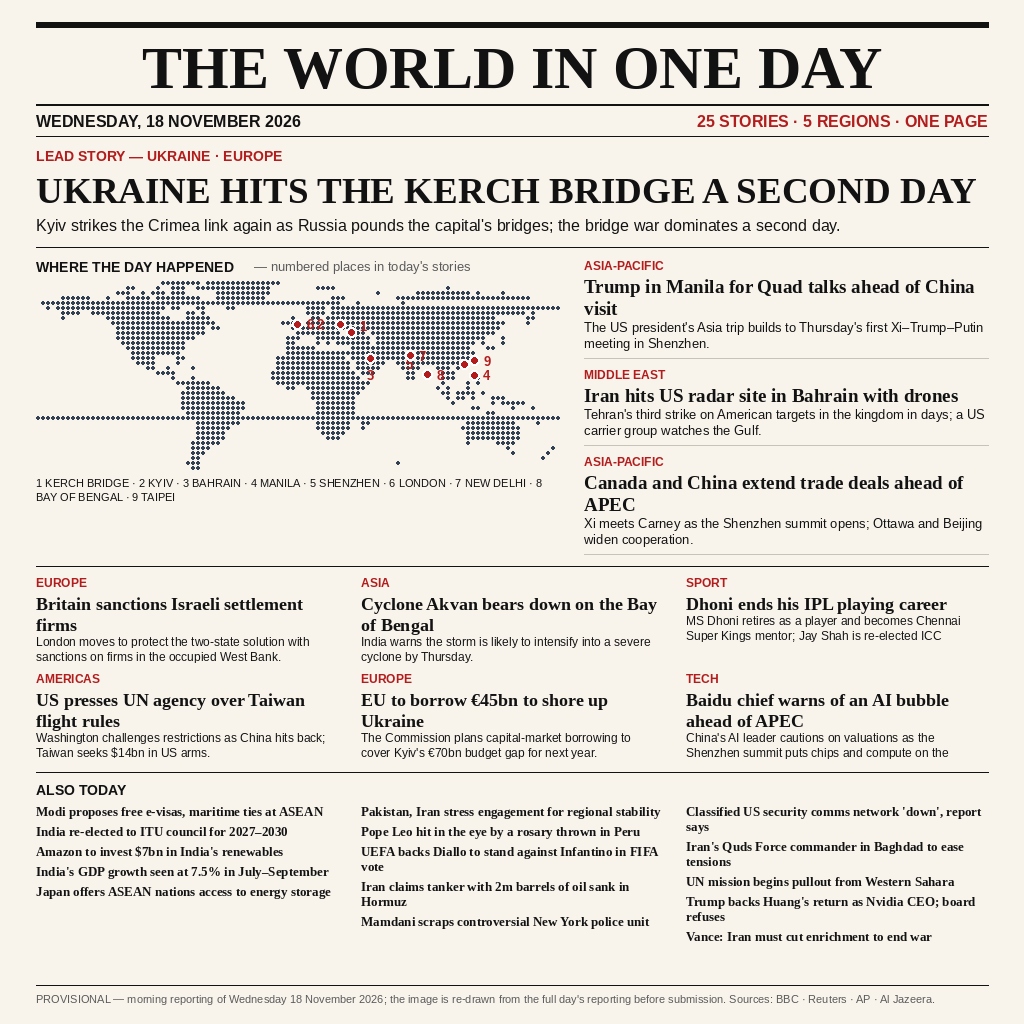
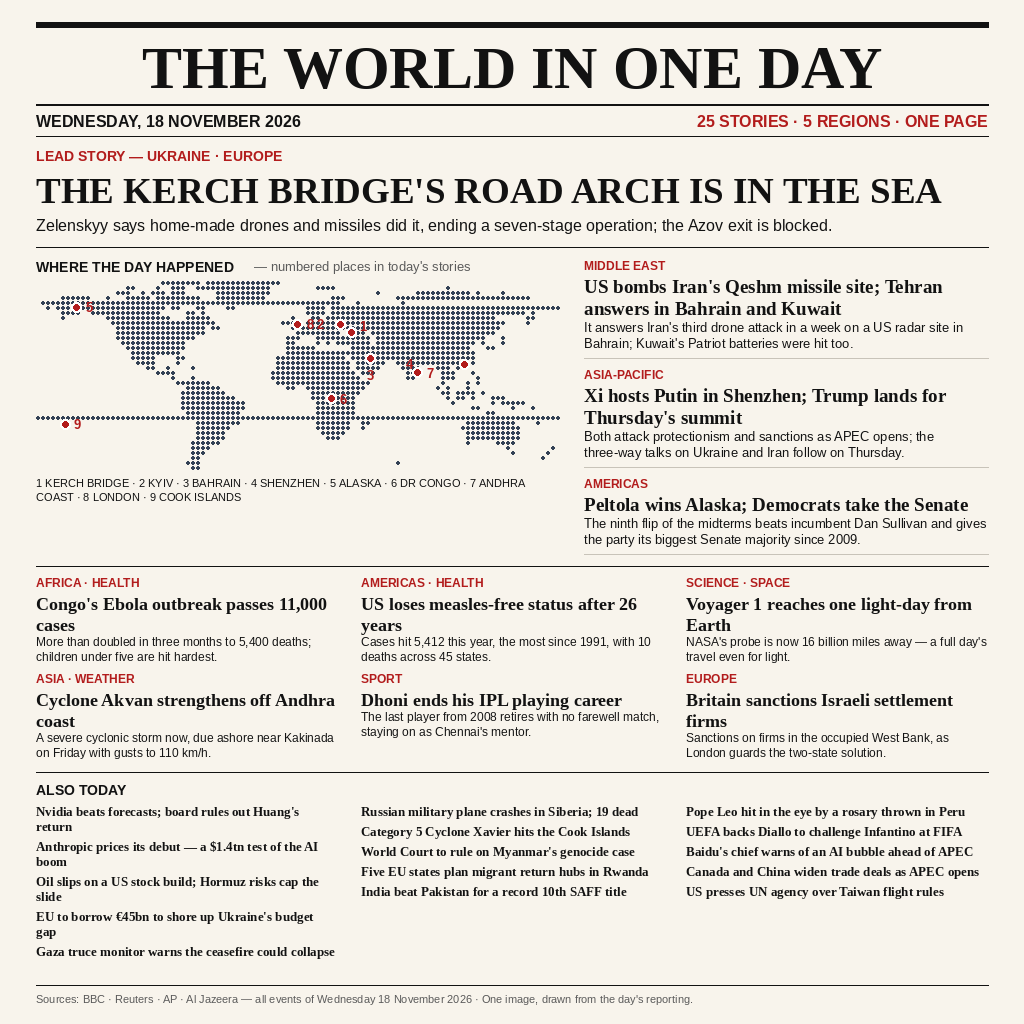
Final full-day edition — Wednesday 18 November 2026 (news-image-20261118)
Re-drawn from the full day's reporting: Kerch Bridge arch confirmed
down, US strike on Qeshm and Iran's answer in Bahrain and Kuwait,
Xi–Putin in Shenzhen as Trump lands, Peltola gives Democrats a 56–44
Senate, Congo Ebola past 11,000 cases, Voyager 1 at one light-day.
PROVISIONAL footer removed; image re-rendered and visually verified.

diff --git a/main.ts b/main.ts
@@ -4,10 +4,9 @@
 // strip) by copying the bundled image to the output directory. The image
 // bytes are fixed, so both grader runs produce identical output.
 //
-// NOTE: the bundled image is provisional — drawn from the morning's
-// reporting. Before submission it is re-drawn from the full day's
-// reporting (see stories.json) and re-verified; main.ts itself does
-// not change, only the image bytes it copies.
+// The bundled image is the final one — drawn from the full day's
+// reporting of Wednesday 18 November 2026 (see stories.json) and
+// visually verified before the commit that ships it.
 import { copyFileSync, existsSync, mkdirSync, statSync } from "node:fs";
 import { dirname, join } from "node:path";
 import { fileURLToPath } from "node:url";

diff --git a/README.md b/README.md
@@ -6,16 +6,19 @@ One image summing up the world's news of Wednesday 18 November 2026,
 drawn as a newspaper front page — the form a picture editor reaches for
 when a whole day has to fit on one page:
 
-- **Lead: Ukraine hits the Kerch Bridge a second day** — Kyiv strikes
-  the Crimea link again as Russia pounds the capital's bridges.
+- **Lead: the Kerch Bridge's road arch is in the sea** — Ukraine
+  confirms the span is destroyed; Zelenskyy says home-made drones and
+  missiles ended a seven-stage operation, and wreckage blocks the Sea
+  of Azov exit for weeks.
 - **A dotted world map** with the day's places numbered: Kerch Bridge,
-  Kyiv, Bahrain, Manila, Shenzhen, London, New Delhi, Bay of Bengal,
-  Taipei.
-- **25 stories in all**, across five regions — Trump in Manila for Quad
-  talks ahead of the Xi–Trump–Putin meeting, Iran's drone strike on a
-  US radar site in Bahrain, Britain's sanctions on settlement firms,
-  Cyclone Akvan, Dhoni's IPL retirement, and fifteen more in the
-  "Also today" strip.
+  Kyiv, Bahrain, Shenzhen, Alaska, DR Congo, Andhra Coast, London,
+  Cook Islands.
+- **25 stories in all**, across five regions — the US strike on Iran's
+  Qeshm missile site and Tehran's answer in Bahrain and Kuwait, Xi
+  hosting Putin in Shenzhen as Trump lands for Thursday's three-way
+  summit, Peltola's Alaska win giving Democrats a 56–44 Senate,
+  Congo's Ebola outbreak passing 11,000 cases, Voyager 1 reaching one
+  light-day from Earth, and fifteen more in the "Also today" strip.
 
 Every headline is a real event of 18 November 2026 as reported that day
 (BBC, Reuters, AP, Al Jazeera). The image is drawn programmatically
